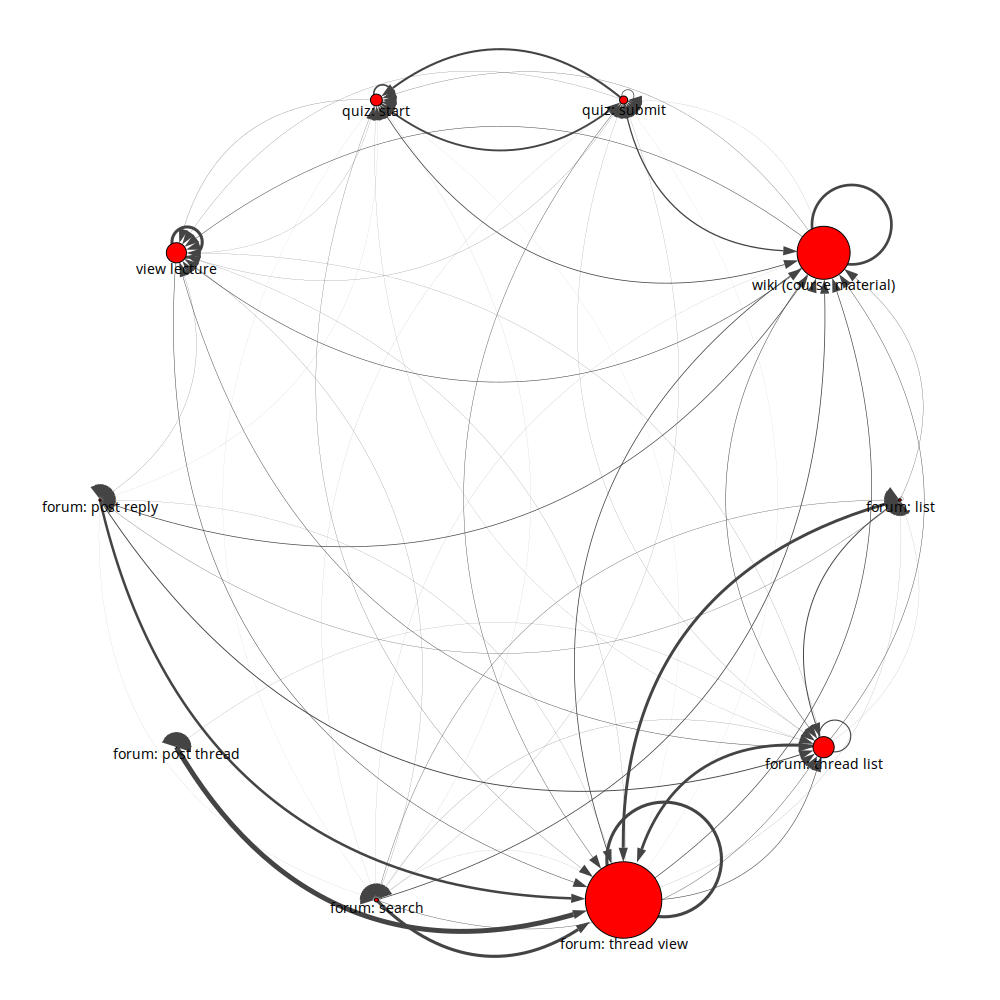
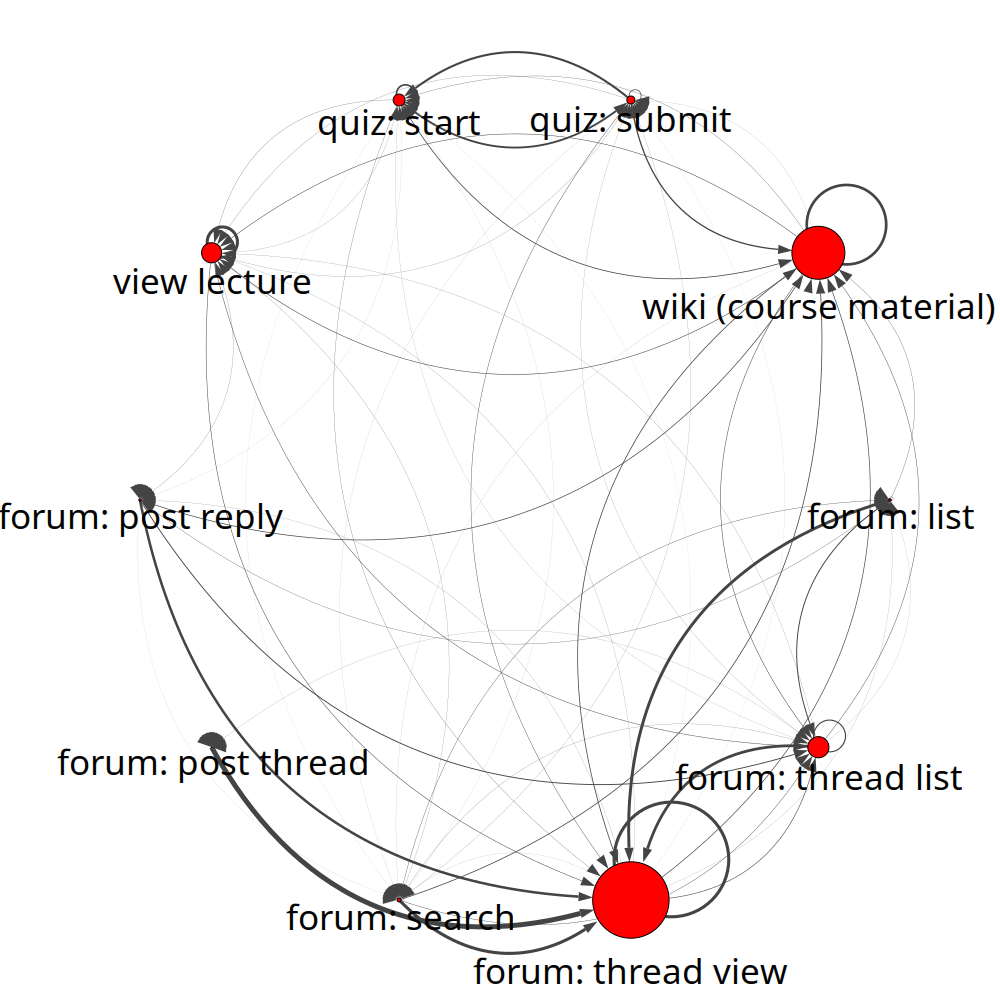
Update all figures for adjusted font size.

diff --git a/sec-results.tex b/sec-results.tex
@@ -78,8 +78,23 @@ using python-igraph\footnote{\url{http://igraph.org/python/}}.
     \caption{An example ``lecture viewing'' state.}
     \label{fig:lecture-viewing-state}
   \end{subfigure}
-  \caption{Two example states found by the 6-state TL-HMM.}
+  \caption{Two example states found by the 6-state TL-HMM. (The naming of
+  these states reflects our own interpretation.)}
   \label{fig:states}
+\end{figure*}
+
+\begin{figure*}
+  \centering
+  \begin{subfigure}[t]{0.5\textwidth}
+    \includegraphics[width=\textwidth]{figures/text-6state/state4.png}
+    \caption{A state from \textretrieval{}.}
+  \end{subfigure}%
+  \begin{subfigure}[t]{0.5\textwidth}
+    \includegraphics[width=\textwidth]{figures/sustain-6state/state4.png}
+    \caption{A state from \sustain{}.}
+  \end{subfigure}
+  \caption{Two similar example states found by the 6-state TL-HMM.}
+  \label{fig:cross-course}
 \end{figure*}
 
 Figure~\ref{fig:states} includes two such representations we learned. The
@@ -107,20 +122,6 @@ existing posts}. Thus, capturing the action transition matrix within a
 latent state is important for capturing detailed insights involving bigrams
 of actions.
 
-\begin{figure*}
-  \centering
-  \begin{subfigure}[t]{0.5\textwidth}
-    \includegraphics[width=\textwidth]{figures/text-6state/state4.png}
-    \caption{A state from \textretrieval{}.}
-  \end{subfigure}%
-  \begin{subfigure}[t]{0.5\textwidth}
-    \includegraphics[width=\textwidth]{figures/sustain-6state/state4.png}
-    \caption{A state from \sustain{}.}
-  \end{subfigure}
-  \caption{Two similar example states found by the 6-state TL-HMM.}
-  \label{fig:cross-course}
-\end{figure*}
-
 We can also use our model for cross-course behavior analysis. In
 Figure~\ref{fig:cross-course} we show two latent state representations
 learned by a 6-state TL-HMM, one from \textretrieval{} and one from
@@ -147,46 +148,39 @@ discover patterns of different granularity, and we can show this by varying
 $K$ for a particular course and observing how the latent state
 representations evolve.
 
+\afterpage{%
+\begin{landscape}
 \begin{figure*}
   \centering
   \begin{tabular}{cccc}
     \textbf{State 0 (Wiki)} & \textbf{State 1 (Lecture)}
     & \textbf{State 2 (Thread View)} & \textbf{State 3 (Lecture/Wiki)}\\\hline
-    \includegraphics[width=0.22\textwidth]{figures/text-2state/state0.png}
+    \includegraphics[width=0.30\textwidth]{figures/text-2state/state0.png}
     &
-    \includegraphics[width=0.22\textwidth]{figures/text-2state/state1.png}\\
-    \includegraphics[width=0.22\textwidth]{figures/text-3state/state0.png}
+    \includegraphics[width=0.30\textwidth]{figures/text-2state/state1.png}\\
+    \includegraphics[width=0.30\textwidth]{figures/text-3state/state0.png}
     &
-    \includegraphics[width=0.22\textwidth]{figures/text-3state/state1.png}
+    \includegraphics[width=0.30\textwidth]{figures/text-3state/state1.png}
     &
-    \includegraphics[width=0.22\textwidth]{figures/text-3state/state2.png}\\
-    \includegraphics[width=0.22\textwidth]{figures/text-4state/state0.png}
+    \includegraphics[width=0.30\textwidth]{figures/text-3state/state2.png}\\
+    \includegraphics[width=0.30\textwidth]{figures/text-4state/state0.png}
     &
-    \includegraphics[width=0.22\textwidth]{figures/text-4state/state1.png}
+    \includegraphics[width=0.30\textwidth]{figures/text-4state/state1.png}
     &
-    \includegraphics[width=0.22\textwidth]{figures/text-4state/state2.png}
+    \includegraphics[width=0.30\textwidth]{figures/text-4state/state2.png}
     &
-    \includegraphics[width=0.22\textwidth]{figures/text-4state/state3.png}
+    \includegraphics[width=0.30\textwidth]{figures/text-4state/state3.png}
   \end{tabular}
   \caption{The evolution of states for increasing $K$ for the
   \protect\textretrieval{} MOOC.\ State ``names'' indicate the highest
   probability action(s) within the state.} % I don't know why \protect is needed
   \label{fig:text-state-evolution}
 \end{figure*}
+\end{landscape}
+}
 
-In Figure~\ref{fig:text-state-evolution} we see the evolution of the latent
-state representations found for the \textretrieval{} MOOC\footnote{Due to
-space constraints, the graphs are quite small, but the states are in the
-same positions as they were in previous figures to aid interpretation.}.
-With $K=2$ we uncover a video watching pattern (state 1) and a course
-material browsing pattern (state 0). However, we can see that when $K=3$ we
-are able to uncover a new pattern involving forum behavior in state 3
-(notice the node sizes on the bottom right). As we increase $K$ to four, we
-can see that state 1 splits into state 1 and state 3. These states appear
-quite similar at a glance, but there are still some key differences. First,
-we can see that state 1 now has a non-negligible forum component, whereas
-state 3 has hardly any weight on the forum.
-
+\afterpage{%
+\begin{landscape}
 \begin{figure*}
   \centering
   \begin{tabular}{cccc}
@@ -194,27 +188,42 @@ state 3 has hardly any weight on the forum.
     & \textbf{State 1 (Lecture/Wiki)}
     & \textbf{State 2 (Thread List)}
     & \textbf{State 3 (Thread View)}\\\hline
-    \includegraphics[width=0.22\textwidth]{figures/sustain-2state/state0.png}
+    \includegraphics[width=0.30\textwidth]{figures/sustain-2state/state0.png}
     &
-    \includegraphics[width=0.22\textwidth]{figures/sustain-2state/state1.png}\\
-    \includegraphics[width=0.22\textwidth]{figures/sustain-3state/state0.png}
+    \includegraphics[width=0.30\textwidth]{figures/sustain-2state/state1.png}\\
+    \includegraphics[width=0.30\textwidth]{figures/sustain-3state/state0.png}
     &
-    \includegraphics[width=0.22\textwidth]{figures/sustain-3state/state2.png}
+    \includegraphics[width=0.30\textwidth]{figures/sustain-3state/state2.png}
     &
-    \includegraphics[width=0.22\textwidth]{figures/sustain-3state/state1.png}\\
-    \includegraphics[width=0.22\textwidth]{figures/sustain-4state/state0.png}
+    \includegraphics[width=0.30\textwidth]{figures/sustain-3state/state1.png}\\
+    \includegraphics[width=0.30\textwidth]{figures/sustain-4state/state0.png}
     &
-    \includegraphics[width=0.22\textwidth]{figures/sustain-4state/state3.png}
+    \includegraphics[width=0.30\textwidth]{figures/sustain-4state/state3.png}
     &
-    \includegraphics[width=0.22\textwidth]{figures/sustain-4state/state1.png}
+    \includegraphics[width=0.30\textwidth]{figures/sustain-4state/state1.png}
     &
-    \includegraphics[width=0.22\textwidth]{figures/sustain-4state/state2.png}
+    \includegraphics[width=0.30\textwidth]{figures/sustain-4state/state2.png}
   \end{tabular}
   \caption{The evolution of states for increasing $K$ for the
   \protect\sustain{} MOOC.\ State ``names'' indicate the highest
   probability action(s) within a state.} % I don't know why \protect is needed
   \label{fig:sustain-state-evolution}
 \end{figure*}
+\end{landscape}
+}
+
+In Figure~\ref{fig:text-state-evolution} we see\footnote{Due to space
+constraints, the graphs are quite small, but the states are in the same
+positions as they were in previous figures to aid interpretation.} the
+evolution of the latent state representations found for the
+\textretrieval{} MOOC.  With $K=2$ we uncover a video watching pattern
+(state 1) and a course material browsing pattern (state 0). However, we can
+see that when $K=3$ we are able to uncover a new pattern involving forum
+behavior in state 3 (notice the node sizes on the bottom right). As we
+increase $K$ to four, we can see that state 1 splits into state 1 and state
+3. These states appear quite similar at a glance, but there are still some
+key differences. First, we can see that state 1 now has a non-negligible
+forum component, whereas state 3 has hardly any weight on the forum.
 
 We observe similar behavior in Figure~\ref{fig:sustain-state-evolution}
 as we increase $K$ when fitting our TL-HMM on the \sustain{} MOOC.\ Again,
@@ -228,25 +237,7 @@ in which case a  setting of $K=3$ may be more appropriate for the
 
 \subsection{Transitions Between Latent States}
 
-\begin{figure*}
-  \centering
-  \begin{subfigure}[t]{0.33\textwidth}
-    \includegraphics[width=\textwidth,trim={0 3cm 0 2cm}]{figures/trans-comp/trans-avg.png}
-    \caption{\label{fig:trans-avg}}
-  \end{subfigure}%
-  \begin{subfigure}[t]{0.33\textwidth}
-    \includegraphics[width=\textwidth,trim={0, 3cm 0 2cm}]{figures/trans-comp/trans-perfect.png}
-    \caption{\label{fig:trans-perfect}}
-  \end{subfigure}%
-  \begin{subfigure}[t]{0.33\textwidth}
-    \includegraphics[width=\textwidth,trim={0, 3cm 0 2cm}]{figures/trans-comp/trans-low.png}
-    \caption{\label{fig:trans-low}}
-  \end{subfigure}
-  \caption{The latent state transition diagrams for a 4-state TL-HMM fit to
-  \protect\textretrieval{} for all students (a) compared to only ``perfect''
-  students (b) and only ``low'' students (c).}
-  \label{fig:trans-comp}
-\end{figure*}
+
 
 A unique property of our model is its ability to capture transitions
 between the \emph{behavior patterns themselves} that are captured by the
@@ -271,6 +262,26 @@ to capture a more passive student, with negligible probability mass
 associated with forum activity (with low symmetry in the edges). The link
 between ``quiz submit'' and ``quiz start'' (indicating quiz repetition) is
 also significantly lower than state 1.
+
+\begin{figure*}
+  \centering
+  \begin{subfigure}[t]{0.33\textwidth}
+    \includegraphics[width=\textwidth,trim={0 3cm 0 2cm}]{figures/trans-comp/trans-avg.png}
+    \caption{\label{fig:trans-avg}}
+  \end{subfigure}%
+  \begin{subfigure}[t]{0.33\textwidth}
+    \includegraphics[width=\textwidth,trim={0, 3cm 0 2cm}]{figures/trans-comp/trans-perfect.png}
+    \caption{\label{fig:trans-perfect}}
+  \end{subfigure}%
+  \begin{subfigure}[t]{0.33\textwidth}
+    \includegraphics[width=\textwidth,trim={0, 3cm 0 2cm}]{figures/trans-comp/trans-low.png}
+    \caption{\label{fig:trans-low}}
+  \end{subfigure}
+  \caption{The latent state transition diagrams for a 4-state TL-HMM fit to
+  \protect\textretrieval{} for all students (a) compared to only ``perfect''
+  students (b) and only ``low'' students (c).}
+  \label{fig:trans-comp}
+\end{figure*}
 
 Thus, we might expect to see students that perform well in the course
 preferring states 1 and 2 over states 0 and 3. To verify this, we took the

diff --git a/clickstream-hmm.tex b/clickstream-hmm.tex
@@ -30,6 +30,8 @@
 \usepackage[hidelinks]{hyperref}
 \usepackage[inline]{enumitem}
 \usepackage{amsmath}
+\usepackage{pdflscape}
+\usepackage{afterpage}
 
 \setlength{\bibhang}{0em}
 
